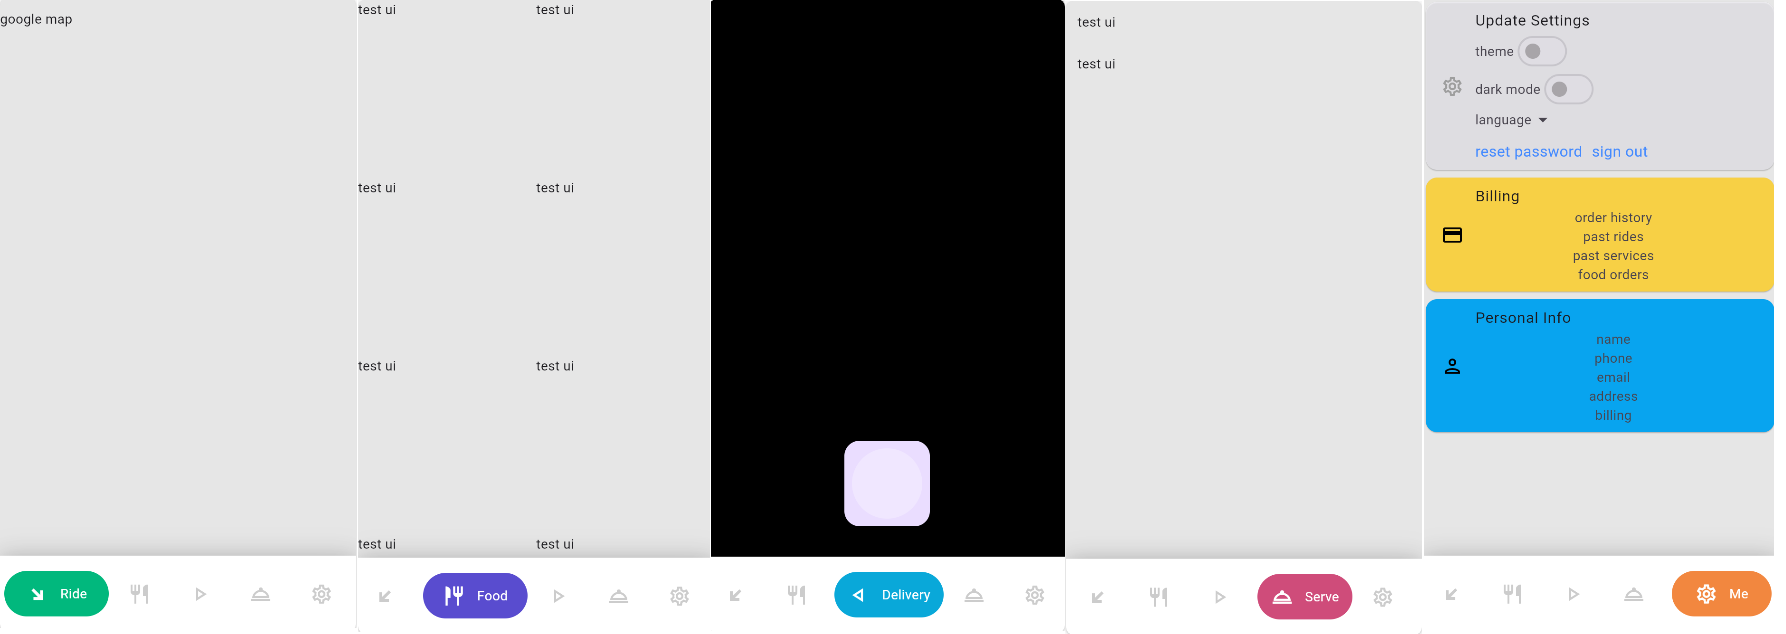
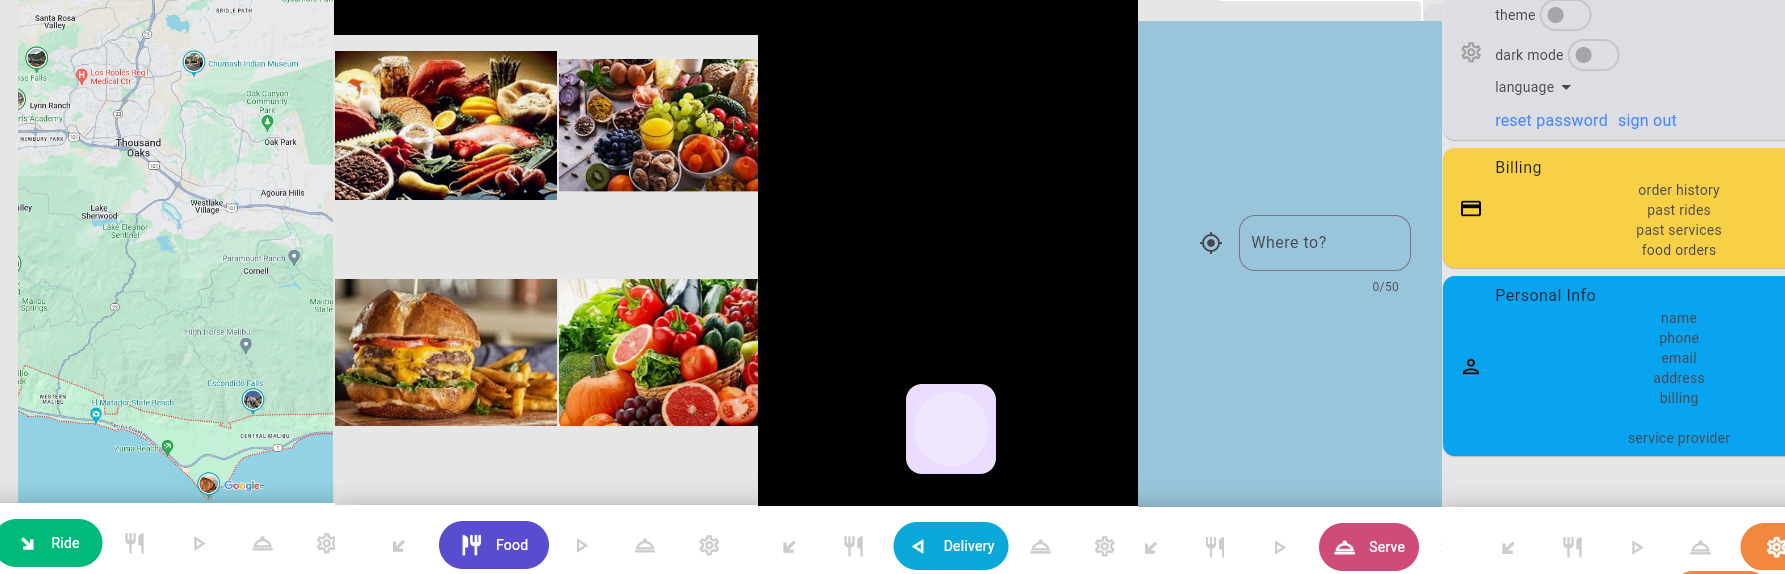
vWIP

diff --git a/lib/views/pro_ui/content/likes_page.dart b/lib/views/pro_ui/content/likes_page.dart
@@ -4,15 +4,36 @@ import 'package:flutter/material.dart';
 class LikesPage extends StatelessWidget {
   @override
   Widget build(BuildContext context) {
-    return Container(
-      child: ListView.builder(
-        itemCount: 2,
-        itemBuilder: (content, index) {
-          return Container(
-            padding: EdgeInsets.symmetric(vertical: 12, horizontal: 12),
-            child: Text("test ui")
-          );
-        },
+    return Center(
+      child: Container(
+        color: const Color.fromARGB(255, 153, 197, 218),
+        child: ListView.builder(
+          itemCount: 1,
+          itemBuilder: (content, index) {
+            return Container(
+              padding: EdgeInsets.symmetric(vertical: 200, horizontal: 120),
+              child: TextFormField(
+                    cursorColor: Colors.blueAccent,
+                    keyboardType: TextInputType.text,
+                    maxLength: 50,
+                    obscureText: false,
+                    // onChanged: (value) => model.email = value,
+                    // validator: (value) {
+                    //   return Validators().evalEmail(value!);
+                    // },
+                    // onSaved: (value) => _email = value,
+                    decoration: InputDecoration(
+                      icon: const Icon(Icons.gps_fixed_sharp),
+                      border: OutlineInputBorder(
+                          borderRadius: BorderRadius.circular(16.0)),
+                      hintText: "serving location",
+                      labelText: "Where to?",
+                      // errorText: snapshot.error,
+                    ),
+                  )
+            );
+          },
+        ),
       ),
     );
   }

diff --git a/lib/views/pro_ui/content/home_page.dart b/lib/views/pro_ui/content/home_page.dart
@@ -4,16 +4,18 @@ import 'package:flutter/material.dart';
 class HomePage extends StatelessWidget {
   @override
   Widget build(BuildContext context) {
-    return Container(
-      child: ListView.builder(
-        itemCount: 1,
-        itemBuilder: (content, index) {
-          return Container(
-            padding: EdgeInsets.symmetric(vertical: 12),
-            child: Text("google map"),
-          );
-        },
-      ),
-    );
+    // return Container(
+    //   child: ListView.builder(
+    //     itemCount: 1,
+    //     itemBuilder: (content, index) {
+    //       return Container(
+    //         padding: EdgeInsets.symmetric(vertical: 1),
+    //         child: Image.asset("assets/map.png"),
+    //       );
+    //     },
+    //   ),
+    // );
+    return SizedBox(
+      child: Image.asset("assets/map.png", fit: BoxFit.cover,));
   }
 }

diff --git a/lib/views/pro_ui/content/gallery_page.dart b/lib/views/pro_ui/content/gallery_page.dart
@@ -10,9 +10,21 @@ class GalleryPage extends StatelessWidget {
     return Container(
       child: GridView.count(
         crossAxisCount: columnCount,
-        children: List.generate(20, (index) {
-          return Text("test ui");
-        }),
+        crossAxisSpacing: 2,
+        mainAxisSpacing: 2,
+        children: [
+          Image.asset("assets/food1.png"),
+          Image.asset("assets/food2.png"),
+          Image.asset("assets/food3.png"),
+          Image.asset("assets/food4.png"),
+          Image.asset("assets/food5.png"),
+          Image.asset("assets/food6.png"),
+          Image.asset("assets/food1.png"),
+          Image.asset("assets/food2.png"),
+        ]
+        // List.generate(20, (index) {
+        //   return Text("test ui");
+        // }),
       ),
     );
   }
